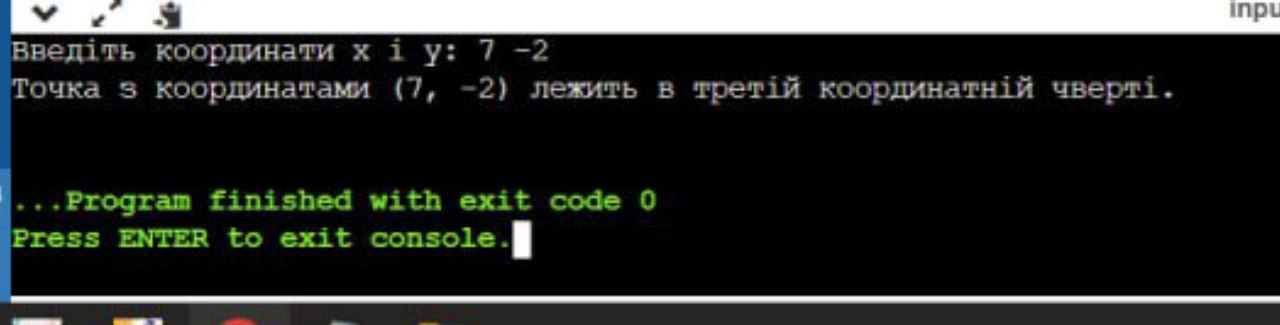
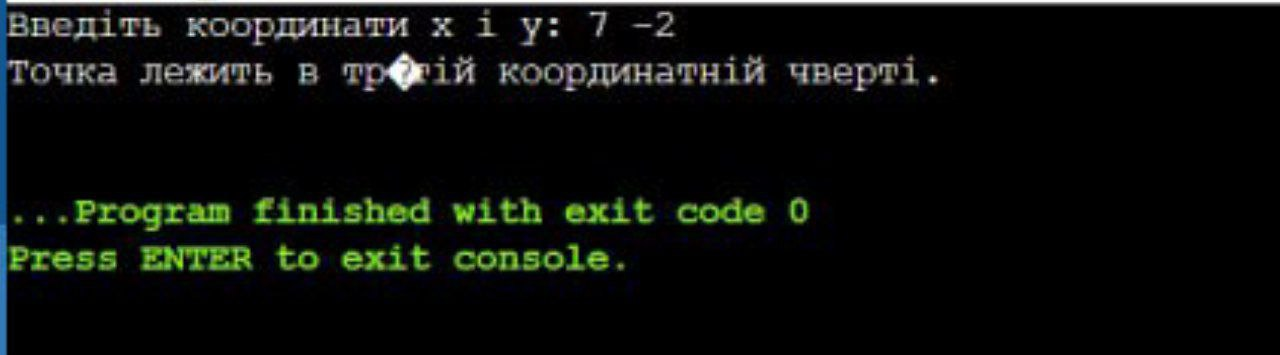
т

diff --git a/Boolean27.cpp b/Boolean27.cpp
@@ -1,24 +1,22 @@
 #include <iostream>
-#include <cmath>// підключення бібліотеки математичних функцій
+#include <cmath>
 int main() 
 {
-    //Boolean27. Дано числа x, y.
+//Boolean27. Дано числа x, y.
     //Перевірити істинність висловлювання: 
     //«Точка з координатами (x, y) лежить в другій або третій координатній чверті»
     int x, y; // декларація цілих змінних
     // введення данних
-    std::cout << "Введіть координати x і y: ";
+ std::cout << "Введіть координати x і y: ";
     // підрахунок
     std::cin >> x >> y;
-
-    if (x < 0 && y < 0) {
-        // виведення результату
-        std::cout << "Точка з координатами (" << x << ", " << y << ") лежить в другій координатній чверті." << std::endl;
-    } else if (x > 0 && y < 0) {
-        std::cout << "Точка з координатами (" << x << ", " << y << ") лежить в третій координатній чверті." << std::endl;
+    
+    if (x > 0 && y < 0) {
+         // виведення результату
+        std::cout << "Точка лежить в третій координатній чверті." << std::endl;
     } else {
-        std::cout << "Точка з координатами (" << x << ", " << y << ") не лежить в другій або третій координатній чверті." << std::endl;
+        std::cout << "Точка не лежить в третій координатній чверті." << std::endl;
     }
-
-    return 0;
+    
+return 0;
 }
